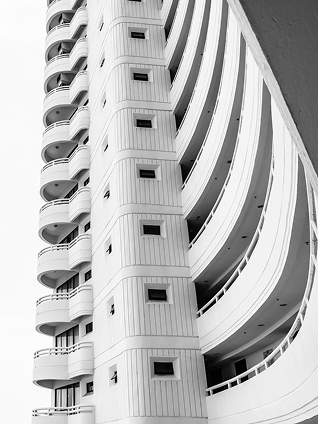
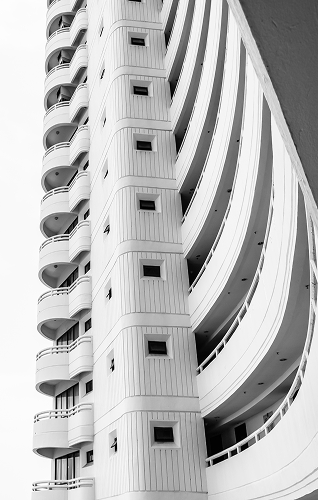
fix the specing issue in about section two

diff --git a/about.html b/about.html
@@ -356,7 +356,7 @@
 
         <!-- About Area start -->
         <section class="about-page-section-main" id="about">
-            <div class="container-fluid">
+            <div>
                 <!-- Top Row: Heading and Intro Text -->
                 <div class="row align-items-start gap-4">
                     <div class="col wow fadeInUp">
@@ -377,7 +377,7 @@
                 </div>
             </div>
             <!-- Bottom Row: Content Box and Image -->
-            <div class="row about-bottom-grid gap-4">
+            <div class="row about-bottom-grid gap-4 align-items-center">
                 <!-- Left Content Box -->
                 <div class="col-lg-5 wow fadeInLeft">
                     <div class="about-section-info-part">
@@ -442,8 +442,6 @@
                 <div class="footer-content">
                     <div class="footer-main">
                         <div class="footer-section footer-intro">
-                            <!-- <div class="logo"><a href="index.html"><img class="header-logo-image"
-                                        src="assets/images/logos/blanca-logo.png" alt="Logo" title="Logo"></a></div> -->
                             <h2 class="footer-heading bs-font-playfair-display">Let's Work Together</h2>
                             <p class="footer-description">Dream home or smart investment connect with blanca today and
                                 start building your future in mumbai & navi mumbai.</p>

diff --git a/assets/css/about.css b/assets/css/about.css
@@ -81,8 +81,9 @@
     margin-bottom: 24px;
     font-size: 16px;
     line-height: 1.5;
-    color: var(--black-30);
-    letter-spacing: 0px;
+    margin-right: calc(100vw - 96vw);
+    text-align: justify;
+    margin-left: 20px;
 }
 
 .about-page-section-main {
@@ -90,20 +91,9 @@
     display: flex;
     flex-direction: column;
     justify-content: center;
-    gap: 80px;
+    gap: 40px;
     padding: 100px 0px;
-}
-
-.about-page-section-main .container {
-    position: static;
-}
-
-.about-section-info-part {
-    margin-left: 68px;
-
-    @media (max-width: 1600px) {
-        margin-left: 20px;
-    }
+    margin-left: calc(100vw - 97vw);
 }
 
 @media only screen and (max-width: 991px) {
